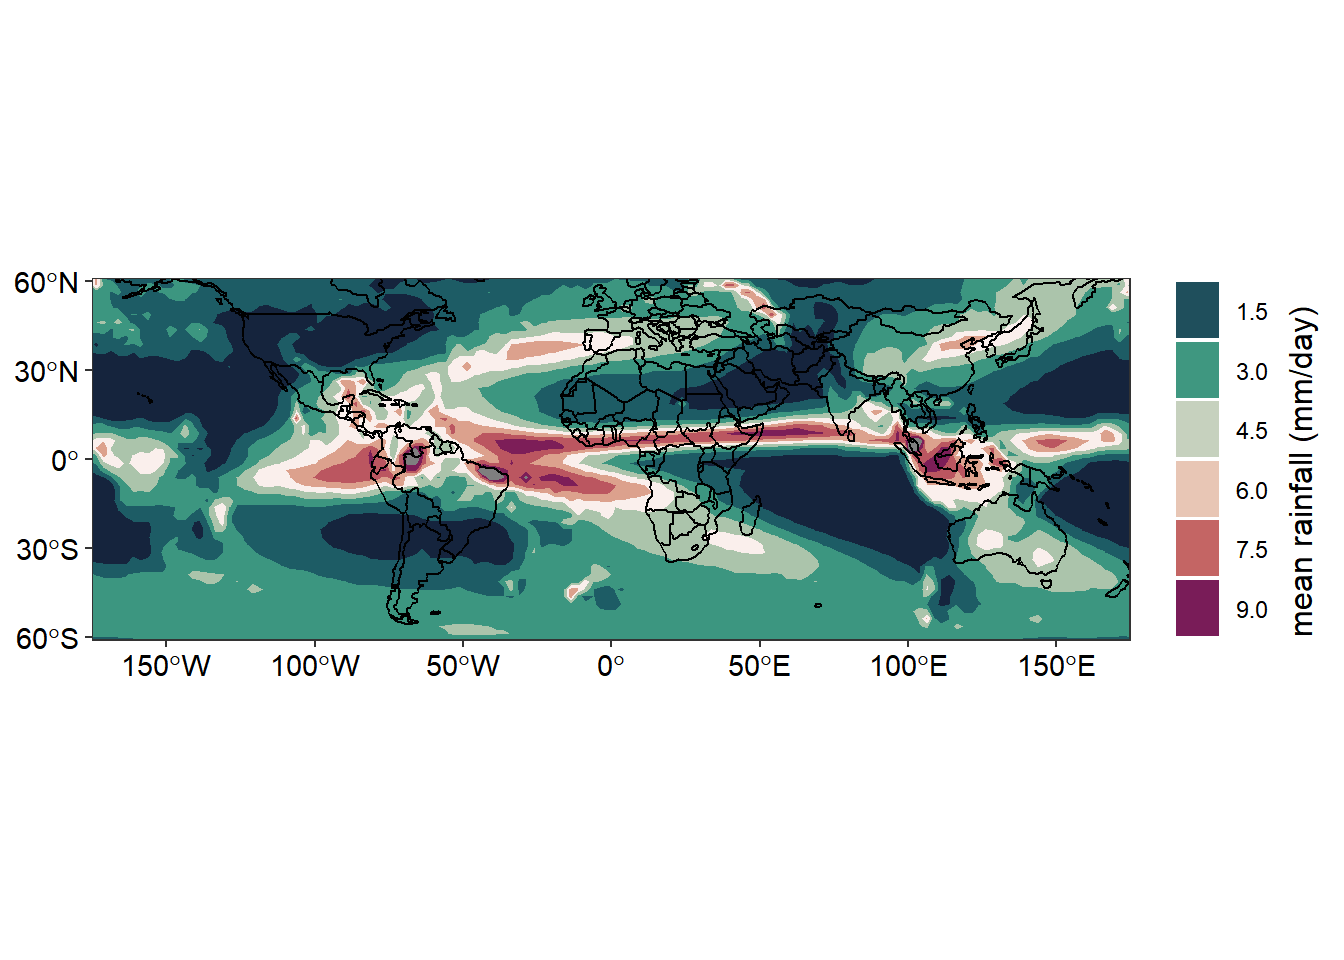
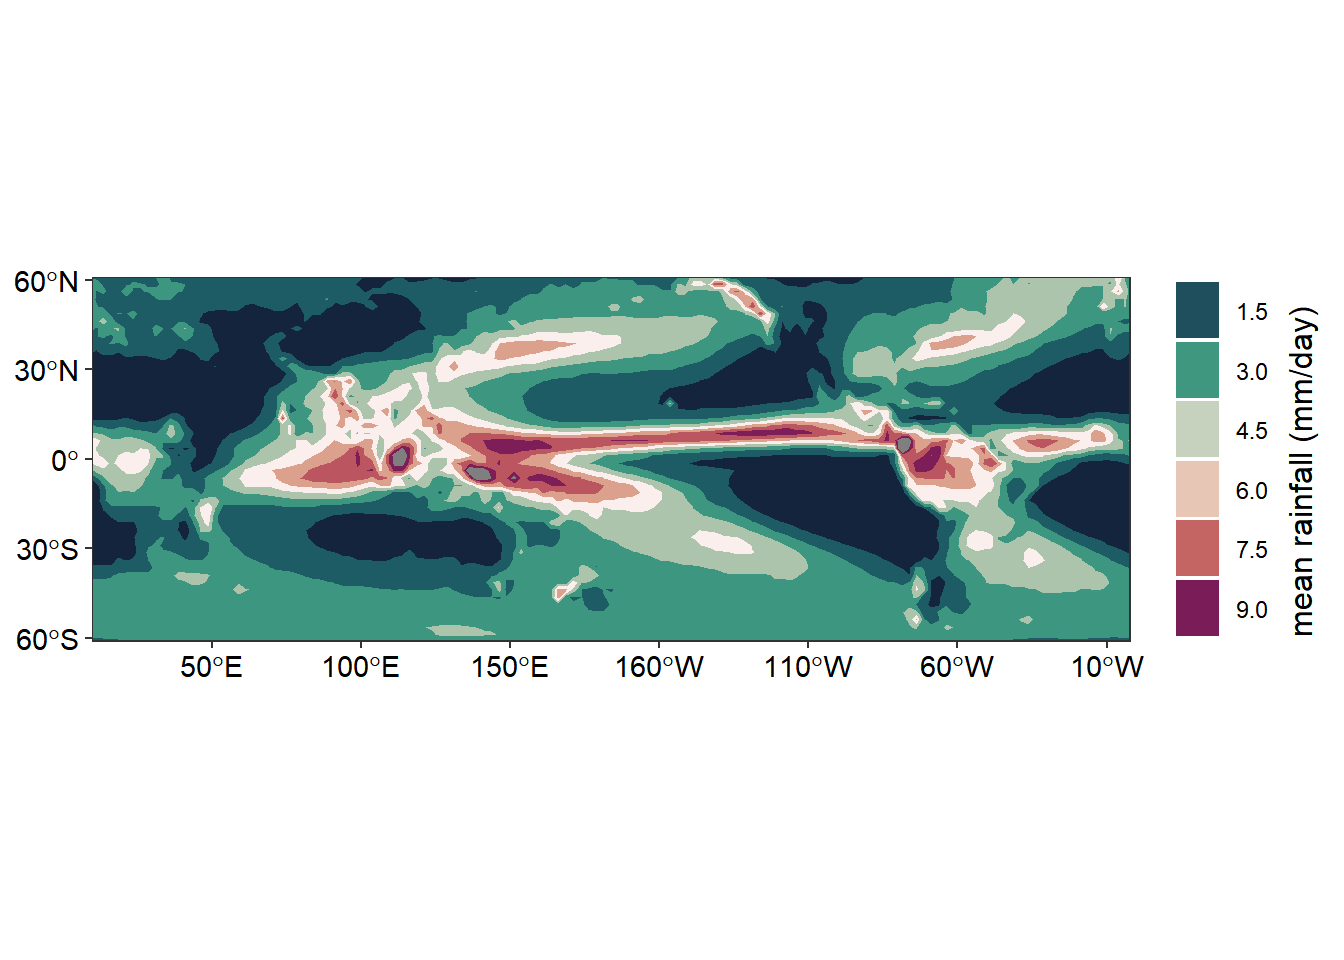
post updated precipitation post

Changed region(s): [[0.0, 0.2812, 0.8438, 0.7188], [0.0, 0.375, 0.0625, 0.4062]]

diff --git a/content/post/2019-05-07-climatological-monthly-variation-of-precipitation-in-the-pemba-channel.html b/content/post/2019-05-07-climatological-monthly-variation-of-precipitation-in-the-pemba-channel.html
@@ -196,7 +196,7 @@ trmm.tb[[n]] = matrix_tb(lon, lat, data[,,n])%&gt;%
 <p>Then we unlist the data frame and arrange them in rows and convert the longitude format from 0–360 to -180 to 180 degrees as shown in table <a href="#tab:tab3">3</a>.</p>
 <pre class="r"><code>trmm.tb = trmm.tb %&gt;% 
   bind_rows() %&gt;% 
-  mutate(lon = lon-180)</code></pre>
+  mutate(lon = lon)</code></pre>
 <table>
 <caption>
 <span id="tab:tab3">Table 3: </span>Sample of precipitation dataset arranged in data frame converted from array of matrix
@@ -220,114 +220,114 @@ Rainfall
 <tbody>
 <tr>
 <td style="text-align:left;width: 3cm; ">
-1980-06-30
+1991-03-31
 </td>
 <td style="text-align:right;width: 3cm; ">
--128.75
+28.75
 </td>
 <td style="text-align:right;width: 3cm; ">
--46.25
+8.75
 </td>
 <td style="text-align:right;width: 3cm; ">
-2.5504365
+2.2924082
 </td>
 </tr>
 <tr>
 <td style="text-align:left;width: 3cm; ">
-1983-06-30
+1994-11-30
 </td>
 <td style="text-align:right;width: 3cm; ">
-173.75
+91.25
 </td>
 <td style="text-align:right;width: 3cm; ">
-18.75
+-63.75
 </td>
 <td style="text-align:right;width: 3cm; ">
-0.0000000
+1.4881935
 </td>
 </tr>
 <tr>
 <td style="text-align:left;width: 3cm; ">
-1989-05-31
+1996-10-31
 </td>
 <td style="text-align:right;width: 3cm; ">
--88.75
+158.75
 </td>
 <td style="text-align:right;width: 3cm; ">
--23.75
+-66.25
 </td>
 <td style="text-align:right;width: 3cm; ">
-0.9252222
+0.7802227
 </td>
 </tr>
 <tr>
 <td style="text-align:left;width: 3cm; ">
-1996-09-30
+1997-11-30
 </td>
 <td style="text-align:right;width: 3cm; ">
--18.75
+236.25
 </td>
 <td style="text-align:right;width: 3cm; ">
-21.25
+88.75
 </td>
 <td style="text-align:right;width: 3cm; ">
-1.7275815
+0.3195865
 </td>
 </tr>
 <tr>
 <td style="text-align:left;width: 3cm; ">
-2007-03-31
+2003-10-31
 </td>
 <td style="text-align:right;width: 3cm; ">
-103.75
+3.75
 </td>
 <td style="text-align:right;width: 3cm; ">
--26.25
+-36.25
 </td>
 <td style="text-align:right;width: 3cm; ">
-0.0406960
+1.6928258
 </td>
 </tr>
 <tr>
 <td style="text-align:left;width: 3cm; ">
-2008-06-30
+2008-11-30
 </td>
 <td style="text-align:right;width: 3cm; ">
--41.25
+223.75
+</td>
+<td style="text-align:right;width: 3cm; ">
+-21.25
+</td>
+<td style="text-align:right;width: 3cm; ">
+3.0226760
+</td>
+</tr>
+<tr>
+<td style="text-align:left;width: 3cm; ">
+2010-06-30
+</td>
+<td style="text-align:right;width: 3cm; ">
+358.75
+</td>
+<td style="text-align:right;width: 3cm; ">
+36.25
+</td>
+<td style="text-align:right;width: 3cm; ">
+0.0739706
+</td>
+</tr>
+<tr>
+<td style="text-align:left;width: 3cm; ">
+2018-01-31
 </td>
 <td style="text-align:right;width: 3cm; ">
 11.25
 </td>
 <td style="text-align:right;width: 3cm; ">
-6.3572717
-</td>
-</tr>
-<tr>
-<td style="text-align:left;width: 3cm; ">
-2017-04-30
+76.25
 </td>
 <td style="text-align:right;width: 3cm; ">
-41.25
-</td>
-<td style="text-align:right;width: 3cm; ">
--23.75
-</td>
-<td style="text-align:right;width: 3cm; ">
-10.5849819
-</td>
-</tr>
-<tr>
-<td style="text-align:left;width: 3cm; ">
-2018-03-31
-</td>
-<td style="text-align:right;width: 3cm; ">
--13.75
-</td>
-<td style="text-align:right;width: 3cm; ">
--73.75
-</td>
-<td style="text-align:right;width: 3cm; ">
-0.9551287
+4.0491910
 </td>
 </tr>
 </tbody>
@@ -347,9 +347,9 @@ Rainfall
   geom_contour_fill(data = trmm.tb.climatology %&gt;% filter(lat &gt; -62 &amp; lat &lt; 62), 
                     aes(x = lon, y = lat, z = rain.mean), bins = 12)+
   scale_fill_gradientn(colors = oce::oceColorsVorticity(120), limits = c(0.5,10), breaks =seq(0,11,1.5))+
-  geom_sf(data = spData::world, fill = NA, col = 1)+
-  coord_sf(expand = FALSE, xlim = c(-175,175), ylim = c(-61,61))+
-  scale_x_continuous(breaks = seq(-150,150,50))+
+  geom_sf(data = spData::world, fill = NA, col = NA)+
+  coord_sf(expand = FALSE, xlim = c(10,358), ylim = c(-61,61))+
+  # scale_x_continuous(breaks = seq(-150,150,50))+
   scale_y_continuous(breaks = seq(-60,60,30))+
   guides(fill = guide_legend(title = &quot;mean rainfall (mm/day)&quot;, 
                              keyheight = 1.55,
@@ -364,6 +364,10 @@ Rainfall
 Figure 2: Climatological annual mean precipitation (mm/day) for 1979-2010
 </p>
 </div>
+</div>
+<div id="conclusion" class="section level2">
+<h2>Conclusion</h2>
+<p>We have seen that combining the function from <strong>metR</strong> package with gfunctions from <strong>gplot2</strong> package, we are able to make maps that show the distribution of precipitation around the global. From figure <a href="#fig:trmm-clim">2</a>, we notice that the regions that receive high rainfall are those close to the equator.</p>
 </div>
 <div id="references" class="section level2 unnumbered">
 <h2>References</h2>

diff --git a/public/05/07/2019/climatological-monthly-variation-of-precipitation-in-the-pemba-channel/index.html b/public/05/07/2019/climatological-monthly-variation-of-precipitation-in-the-pemba-channel/index.html
@@ -259,7 +259,7 @@ trmm.tb[[n]] = matrix_tb(lon, lat, data[,,n])%&gt;%
 <p>Then we unlist the data frame and arrange them in rows and convert the longitude format from 0–360 to -180 to 180 degrees as shown in table <a href="#tab:tab3">3</a>.</p>
 <pre class="r"><code>trmm.tb = trmm.tb %&gt;% 
   bind_rows() %&gt;% 
-  mutate(lon = lon-180)</code></pre>
+  mutate(lon = lon)</code></pre>
 <table>
 <caption>
 <span id="tab:tab3">Table 3: </span>Sample of precipitation dataset arranged in data frame converted from array of matrix
@@ -283,114 +283,114 @@ Rainfall
 <tbody>
 <tr>
 <td style="text-align:left;width: 3cm; ">
-1980-06-30
+1991-03-31
 </td>
 <td style="text-align:right;width: 3cm; ">
--128.75
+28.75
 </td>
 <td style="text-align:right;width: 3cm; ">
--46.25
+8.75
 </td>
 <td style="text-align:right;width: 3cm; ">
-2.5504365
+2.2924082
 </td>
 </tr>
 <tr>
 <td style="text-align:left;width: 3cm; ">
-1983-06-30
+1994-11-30
 </td>
 <td style="text-align:right;width: 3cm; ">
-173.75
+91.25
 </td>
 <td style="text-align:right;width: 3cm; ">
-18.75
+-63.75
 </td>
 <td style="text-align:right;width: 3cm; ">
-0.0000000
+1.4881935
 </td>
 </tr>
 <tr>
 <td style="text-align:left;width: 3cm; ">
-1989-05-31
+1996-10-31
 </td>
 <td style="text-align:right;width: 3cm; ">
--88.75
+158.75
 </td>
 <td style="text-align:right;width: 3cm; ">
--23.75
+-66.25
 </td>
 <td style="text-align:right;width: 3cm; ">
-0.9252222
+0.7802227
 </td>
 </tr>
 <tr>
 <td style="text-align:left;width: 3cm; ">
-1996-09-30
+1997-11-30
 </td>
 <td style="text-align:right;width: 3cm; ">
--18.75
+236.25
 </td>
 <td style="text-align:right;width: 3cm; ">
-21.25
+88.75
 </td>
 <td style="text-align:right;width: 3cm; ">
-1.7275815
+0.3195865
 </td>
 </tr>
 <tr>
 <td style="text-align:left;width: 3cm; ">
-2007-03-31
+2003-10-31
 </td>
 <td style="text-align:right;width: 3cm; ">
-103.75
+3.75
 </td>
 <td style="text-align:right;width: 3cm; ">
--26.25
+-36.25
 </td>
 <td style="text-align:right;width: 3cm; ">
-0.0406960
+1.6928258
 </td>
 </tr>
 <tr>
 <td style="text-align:left;width: 3cm; ">
-2008-06-30
+2008-11-30
 </td>
 <td style="text-align:right;width: 3cm; ">
--41.25
+223.75
+</td>
+<td style="text-align:right;width: 3cm; ">
+-21.25
+</td>
+<td style="text-align:right;width: 3cm; ">
+3.0226760
+</td>
+</tr>
+<tr>
+<td style="text-align:left;width: 3cm; ">
+2010-06-30
+</td>
+<td style="text-align:right;width: 3cm; ">
+358.75
+</td>
+<td style="text-align:right;width: 3cm; ">
+36.25
+</td>
+<td style="text-align:right;width: 3cm; ">
+0.0739706
+</td>
+</tr>
+<tr>
+<td style="text-align:left;width: 3cm; ">
+2018-01-31
 </td>
 <td style="text-align:right;width: 3cm; ">
 11.25
 </td>
 <td style="text-align:right;width: 3cm; ">
-6.3572717
-</td>
-</tr>
-<tr>
-<td style="text-align:left;width: 3cm; ">
-2017-04-30
+76.25
 </td>
 <td style="text-align:right;width: 3cm; ">
-41.25
-</td>
-<td style="text-align:right;width: 3cm; ">
--23.75
-</td>
-<td style="text-align:right;width: 3cm; ">
-10.5849819
-</td>
-</tr>
-<tr>
-<td style="text-align:left;width: 3cm; ">
-2018-03-31
-</td>
-<td style="text-align:right;width: 3cm; ">
--13.75
-</td>
-<td style="text-align:right;width: 3cm; ">
--73.75
-</td>
-<td style="text-align:right;width: 3cm; ">
-0.9551287
+4.0491910
 </td>
 </tr>
 </tbody>
@@ -410,9 +410,9 @@ Rainfall
   geom_contour_fill(data = trmm.tb.climatology %&gt;% filter(lat &gt; -62 &amp; lat &lt; 62), 
                     aes(x = lon, y = lat, z = rain.mean), bins = 12)+
   scale_fill_gradientn(colors = oce::oceColorsVorticity(120), limits = c(0.5,10), breaks =seq(0,11,1.5))+
-  geom_sf(data = spData::world, fill = NA, col = 1)+
-  coord_sf(expand = FALSE, xlim = c(-175,175), ylim = c(-61,61))+
-  scale_x_continuous(breaks = seq(-150,150,50))+
+  geom_sf(data = spData::world, fill = NA, col = NA)+
+  coord_sf(expand = FALSE, xlim = c(10,358), ylim = c(-61,61))+
+  # scale_x_continuous(breaks = seq(-150,150,50))+
   scale_y_continuous(breaks = seq(-60,60,30))+
   guides(fill = guide_legend(title = &quot;mean rainfall (mm/day)&quot;, 
                              keyheight = 1.55,
@@ -427,6 +427,10 @@ Rainfall
 Figure 2: Climatological annual mean precipitation (mm/day) for 1979-2010
 </p>
 </div>
+</div>
+<div id="conclusion" class="section level2">
+<h2>Conclusion</h2>
+<p>We have seen that combining the function from <strong>metR</strong> package with gfunctions from <strong>gplot2</strong> package, we are able to make maps that show the distribution of precipitation around the global. From figure <a href="#fig:trmm-clim">2</a>, we notice that the regions that receive high rainfall are those close to the equator.</p>
 </div>
 <div id="references" class="section level2 unnumbered">
 <h2>References</h2>
